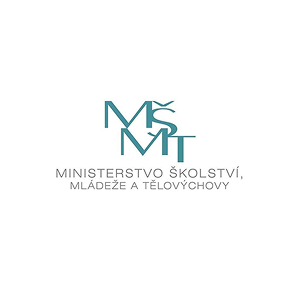
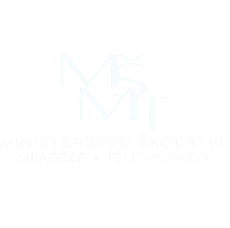
feat: add images to footer & fix build

Changed region(s): [[0.1826, 0.307, 0.8217, 0.6447]]

diff --git a/src/assets/css/main.css b/src/assets/css/main.css
@@ -1610,16 +1610,16 @@ select {
   height: 4rem;
 }
 
+.h-20 {
+  height: 5rem;
+}
+
 .h-4 {
   height: 1rem;
 }
 
 .h-40 {
   height: 10rem;
-}
-
-.h-44 {
-  height: 11rem;
 }
 
 .h-5 {
@@ -1667,6 +1667,22 @@ select {
   height: 100vh;
 }
 
+.h-24 {
+  height: 6rem;
+}
+
+.h-48 {
+  height: 12rem;
+}
+
+.h-28 {
+  height: 7rem;
+}
+
+.h-32 {
+  height: 8rem;
+}
+
 .max-h-full {
   max-height: 100%;
 }
@@ -1679,20 +1695,16 @@ select {
   min-height: 3rem;
 }
 
+.min-h-4 {
+  min-height: 1rem;
+}
+
 .min-h-40 {
   min-height: 10rem;
 }
 
-.min-h-5 {
-  min-height: 1.25rem;
-}
-
 .min-h-\[140px\] {
   min-height: 140px;
-}
-
-.min-h-4 {
-  min-height: 1rem;
 }
 
 .\!w-10 {
@@ -1734,10 +1746,6 @@ select {
 
 .\!min-w-10 {
   min-width: 2.5rem !important;
-}
-
-.min-w-5 {
-  min-width: 1.25rem;
 }
 
 .min-w-4 {
@@ -1864,6 +1872,10 @@ select {
   grid-template-columns: repeat(1, minmax(0, 1fr));
 }
 
+.flex-row {
+  flex-direction: row;
+}
+
 .flex-col {
   flex-direction: column;
 }
@@ -1886,6 +1898,10 @@ select {
 
 .items-stretch {
   align-items: stretch;
+}
+
+.justify-start {
+  justify-content: flex-start;
 }
 
 .justify-end {
@@ -2168,6 +2184,11 @@ select {
 .object-cover {
   -o-object-fit: cover;
      object-fit: cover;
+}
+
+.object-left {
+  -o-object-position: left;
+     object-position: left;
 }
 
 .p-2 {
@@ -3322,8 +3343,37 @@ body {
 }
 
 @media not all and (min-width: 48rem) {
+  .max-md\:flex-row {
+    flex-direction: row;
+  }
+
+  .max-md\:flex-col {
+    flex-direction: column;
+  }
+
   .max-md\:flex-col-reverse {
     flex-direction: column-reverse;
+  }
+
+  .max-md\:items-start {
+    align-items: flex-start;
+  }
+
+  .max-md\:items-center {
+    align-items: center;
+  }
+
+  .max-md\:justify-start {
+    justify-content: flex-start;
+  }
+
+  .max-md\:justify-center {
+    justify-content: center;
+  }
+
+  .max-md\:object-cover {
+    -o-object-fit: cover;
+       object-fit: cover;
   }
 }
 
@@ -3364,12 +3414,16 @@ body {
     height: 18rem;
   }
 
-  .sm\:min-h-\[200px\] {
-    min-height: 200px;
+  .sm\:h-32 {
+    height: 8rem;
   }
 
   .sm\:min-h-5 {
     min-height: 1.25rem;
+  }
+
+  .sm\:min-h-\[200px\] {
+    min-height: 200px;
   }
 
   .sm\:\!w-10 {
@@ -3510,6 +3564,14 @@ body {
     height: 100%;
   }
 
+  .md\:h-40 {
+    height: 10rem;
+  }
+
+  .md\:h-32 {
+    height: 8rem;
+  }
+
   .md\:w-80 {
     width: 20rem;
   }
@@ -3530,12 +3592,21 @@ body {
     align-items: center;
   }
 
+  .md\:justify-center {
+    justify-content: center;
+  }
+
   .md\:gap-20 {
     gap: 5rem;
   }
 
   .md\:gap-6 {
     gap: 1.5rem;
+  }
+
+  .md\:object-cover {
+    -o-object-fit: cover;
+       object-fit: cover;
   }
 
   .md\:p-12 {
@@ -3605,6 +3676,18 @@ body {
 
   .lg\:h-72 {
     height: 18rem;
+  }
+
+  .lg\:h-40 {
+    height: 10rem;
+  }
+
+  .lg\:h-48 {
+    height: 12rem;
+  }
+
+  .lg\:h-56 {
+    height: 14rem;
   }
 
   .lg\:w-72 {

diff --git a/tailwind.config.js b/tailwind.config.js
@@ -1,5 +1,6 @@
 /** @type {import('tailwindcss').Config} */
-import fluid, { extract, fontSize, screens } from 'fluid-tailwind'
+const { extract, fontSize, screens } = require('fluid-tailwind')
+const fluid = require('fluid-tailwind').default
 const defaultTheme = require('tailwindcss/defaultTheme')
 
 module.exports = {
@@ -14,8 +15,6 @@ module.exports = {
   ],
   theme: {
     fontSize: fontSize,
-    screens: screens,
-    },
     screens: screens,
     extend: {
       fontFamily: {
